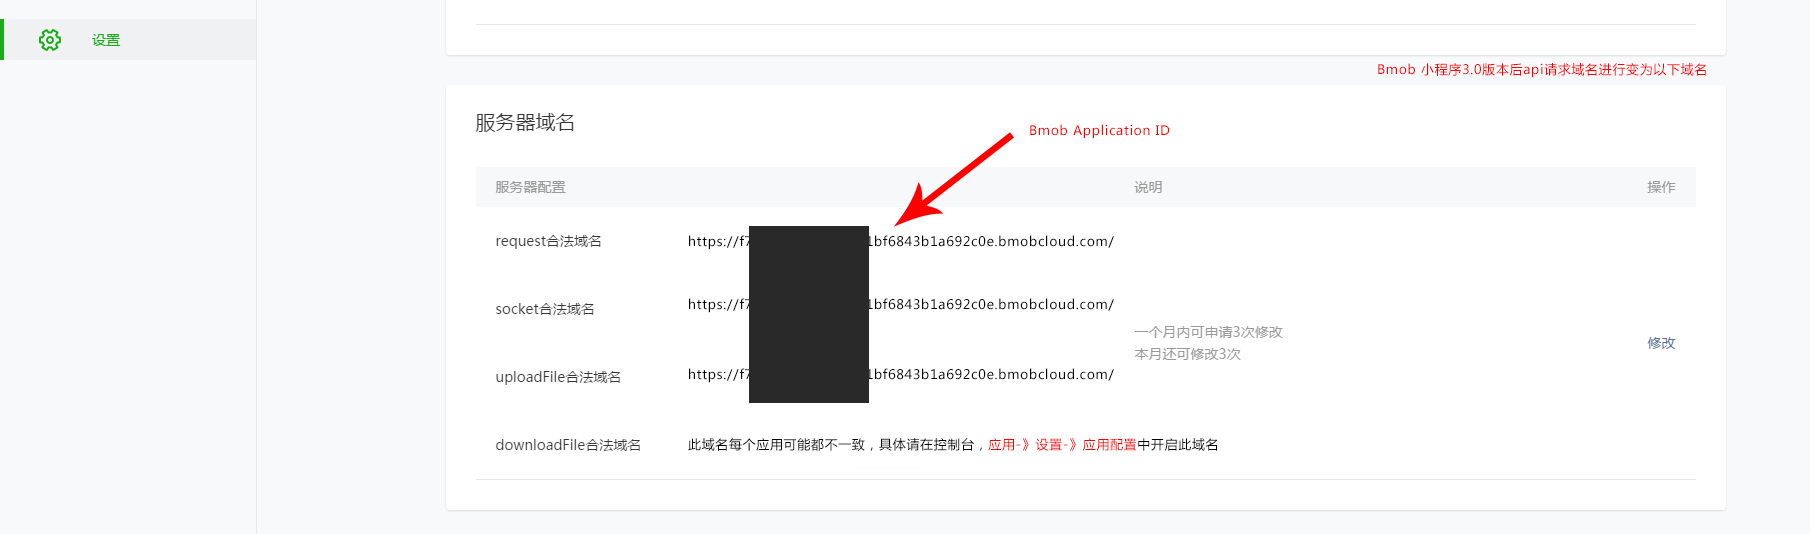
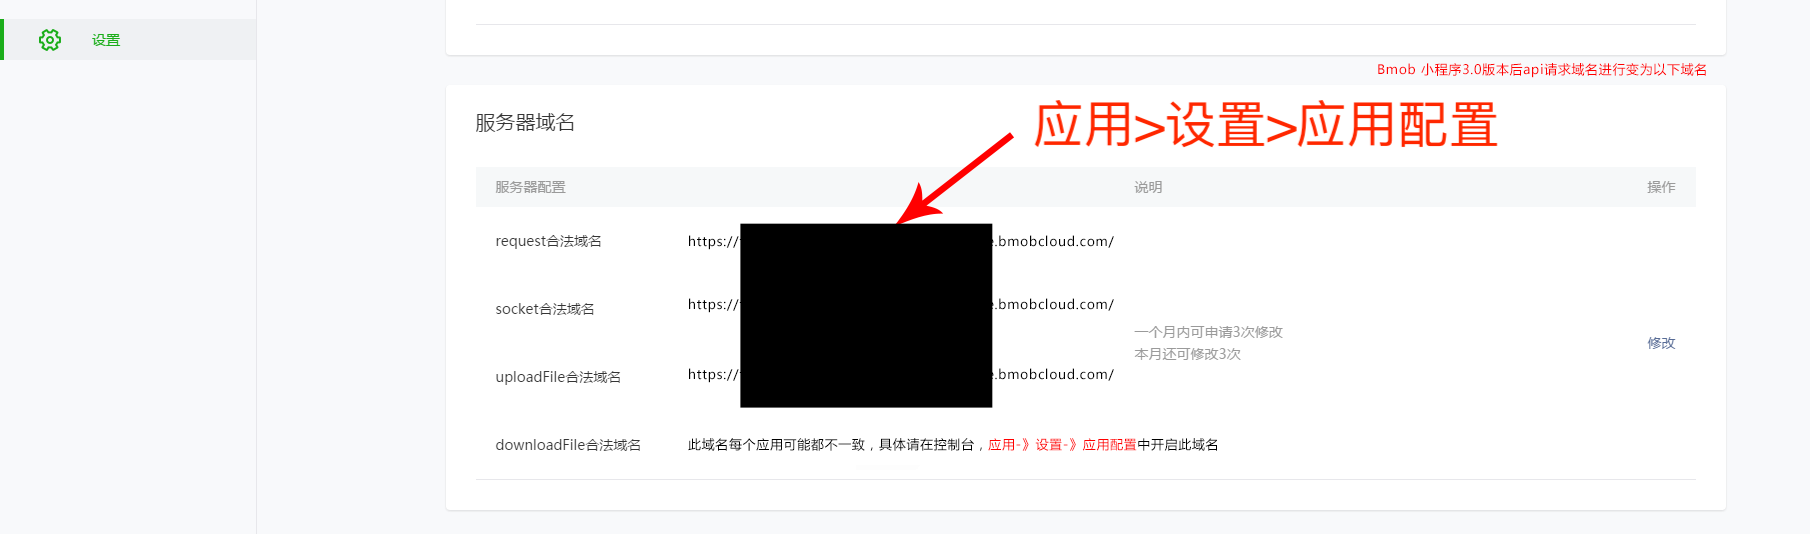
修改授权域名设置

Changed region(s): [[0.4022, 0.4195, 0.5569, 0.779], [0.5569, 0.1798, 0.8354, 0.2697]]

diff --git a/mds/data/wechat_app/index.md b/mds/data/wechat_app/index.md
@@ -31,6 +31,9 @@
 
 ![](image/1.png)
 
+在应用设置->配置里面把这几个域名填写到上图微信后台，设置https域名
+![](image/2.png)
+
 ## 下载和安装BmobSDK
 
 一、把"bmob-min.js"和"underscore.js"放到相应的文件，例如放到utils中，在其他页面添加以下代码
